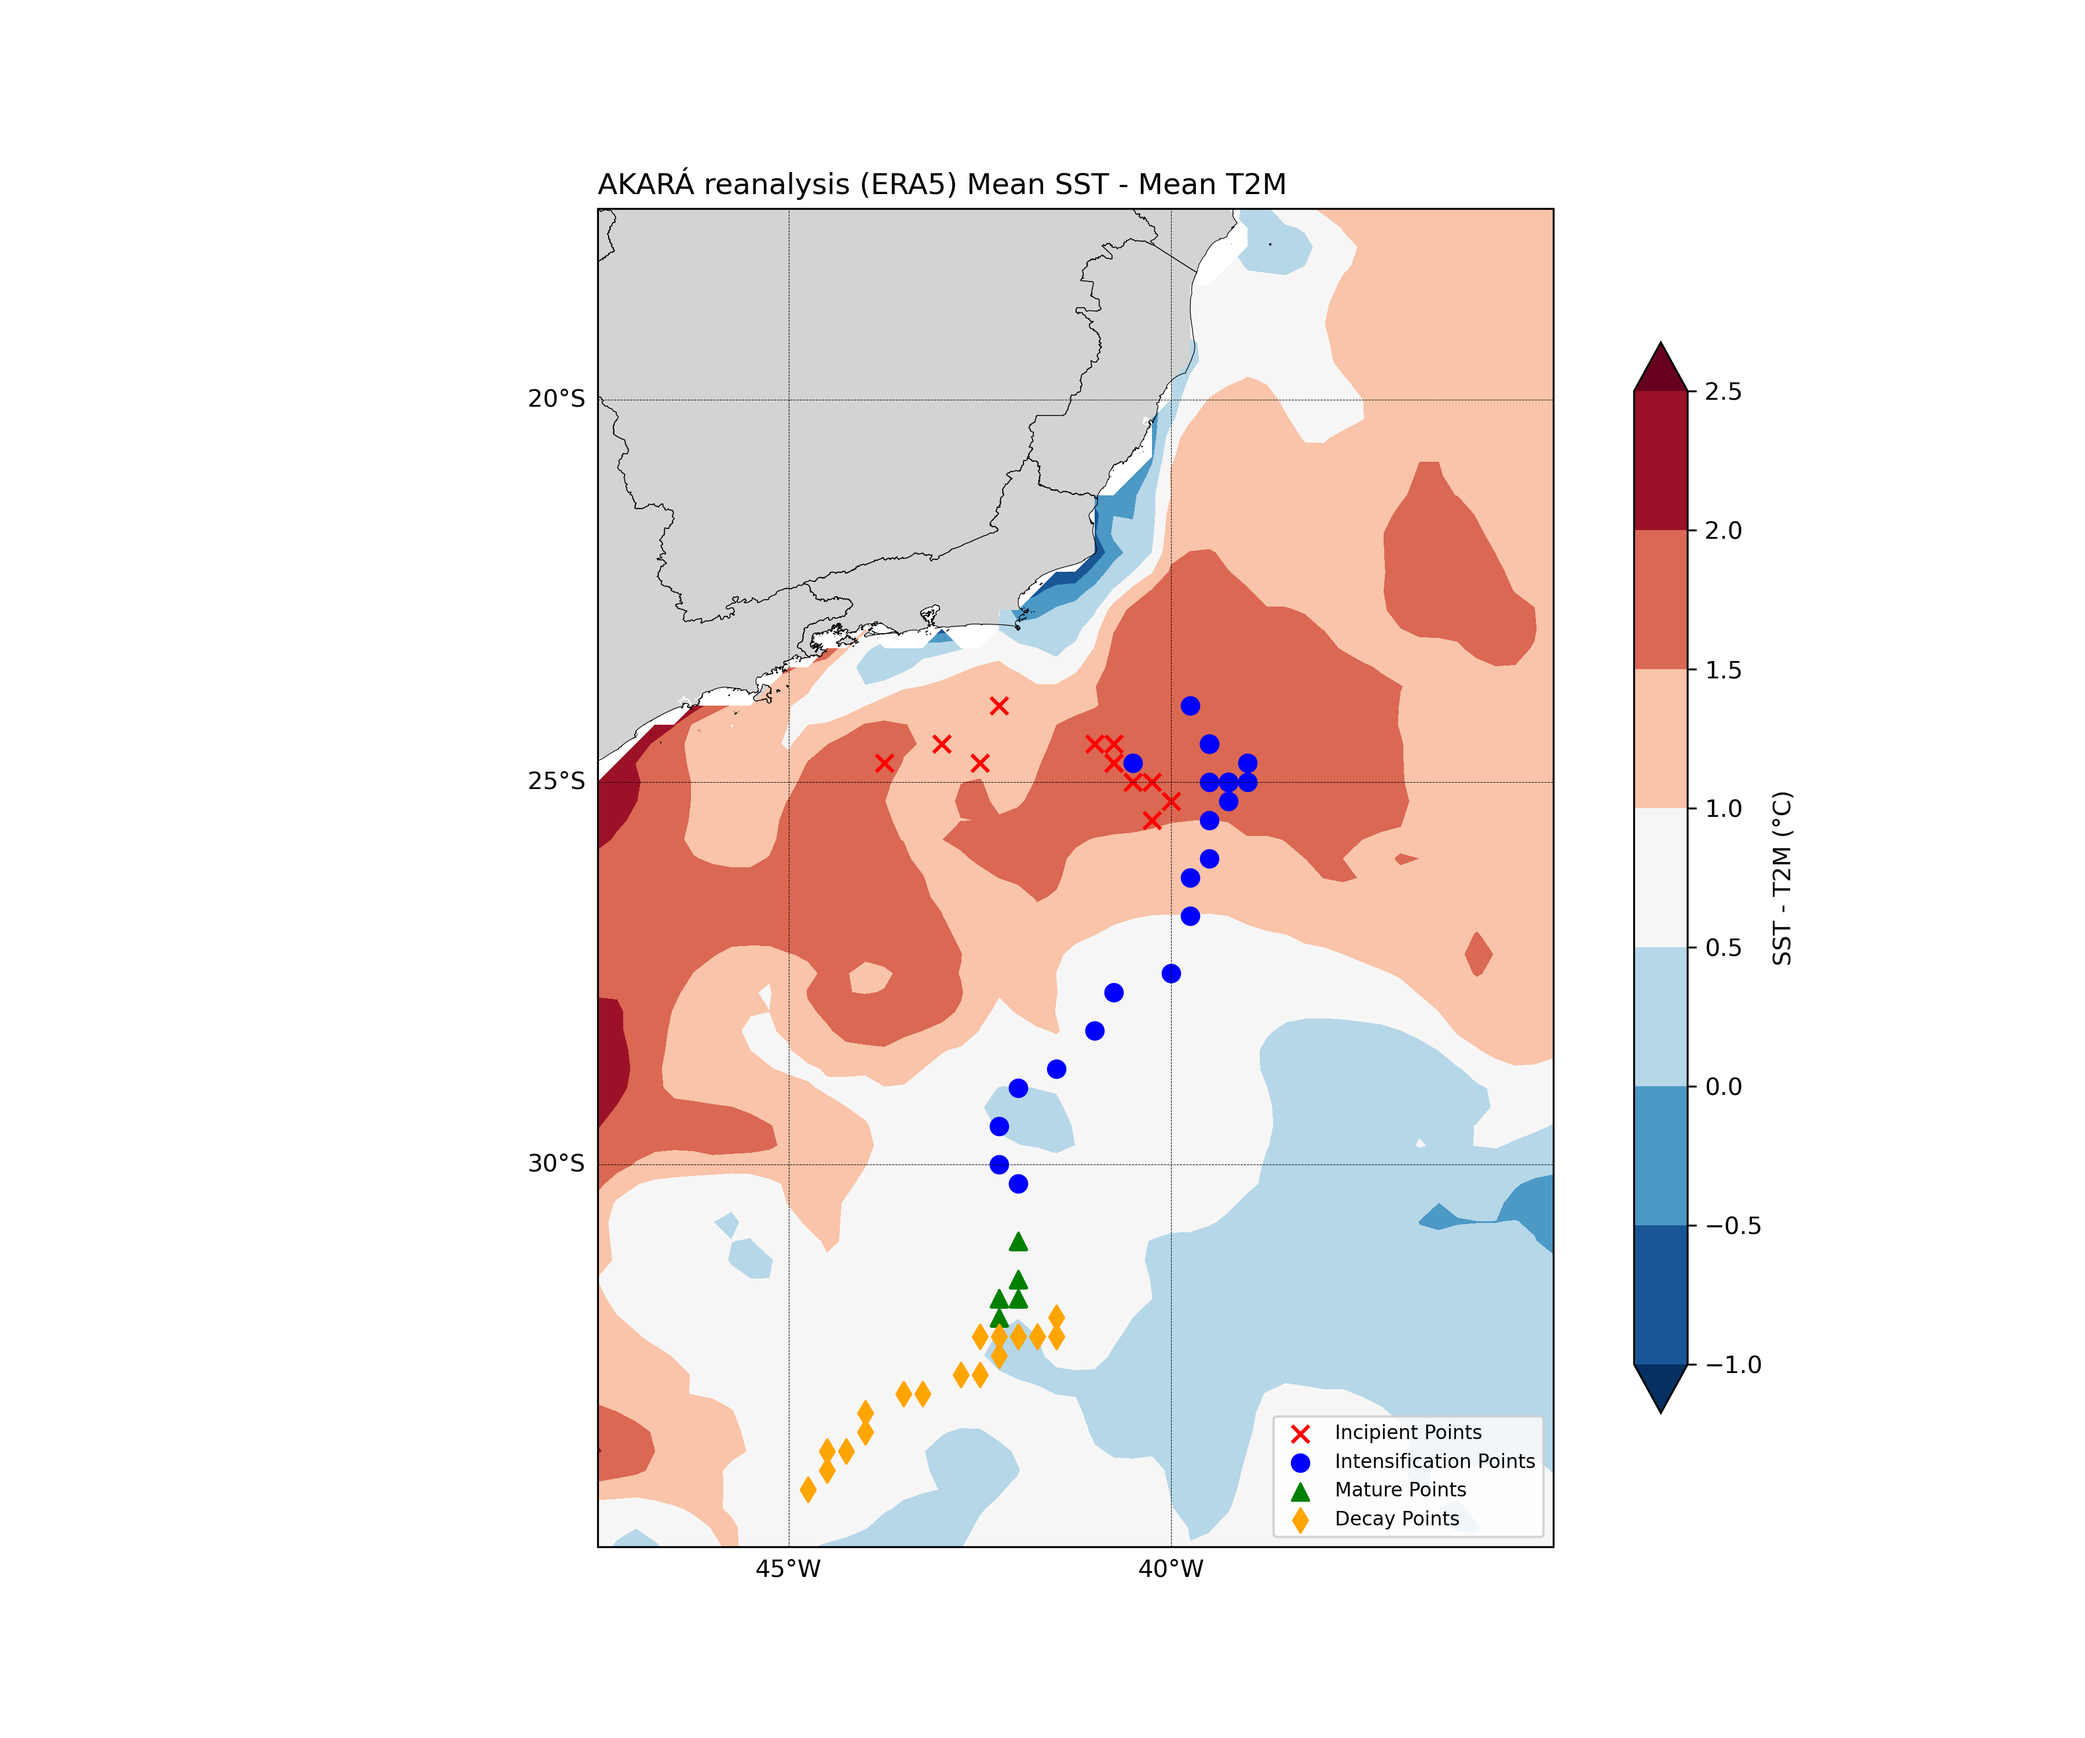
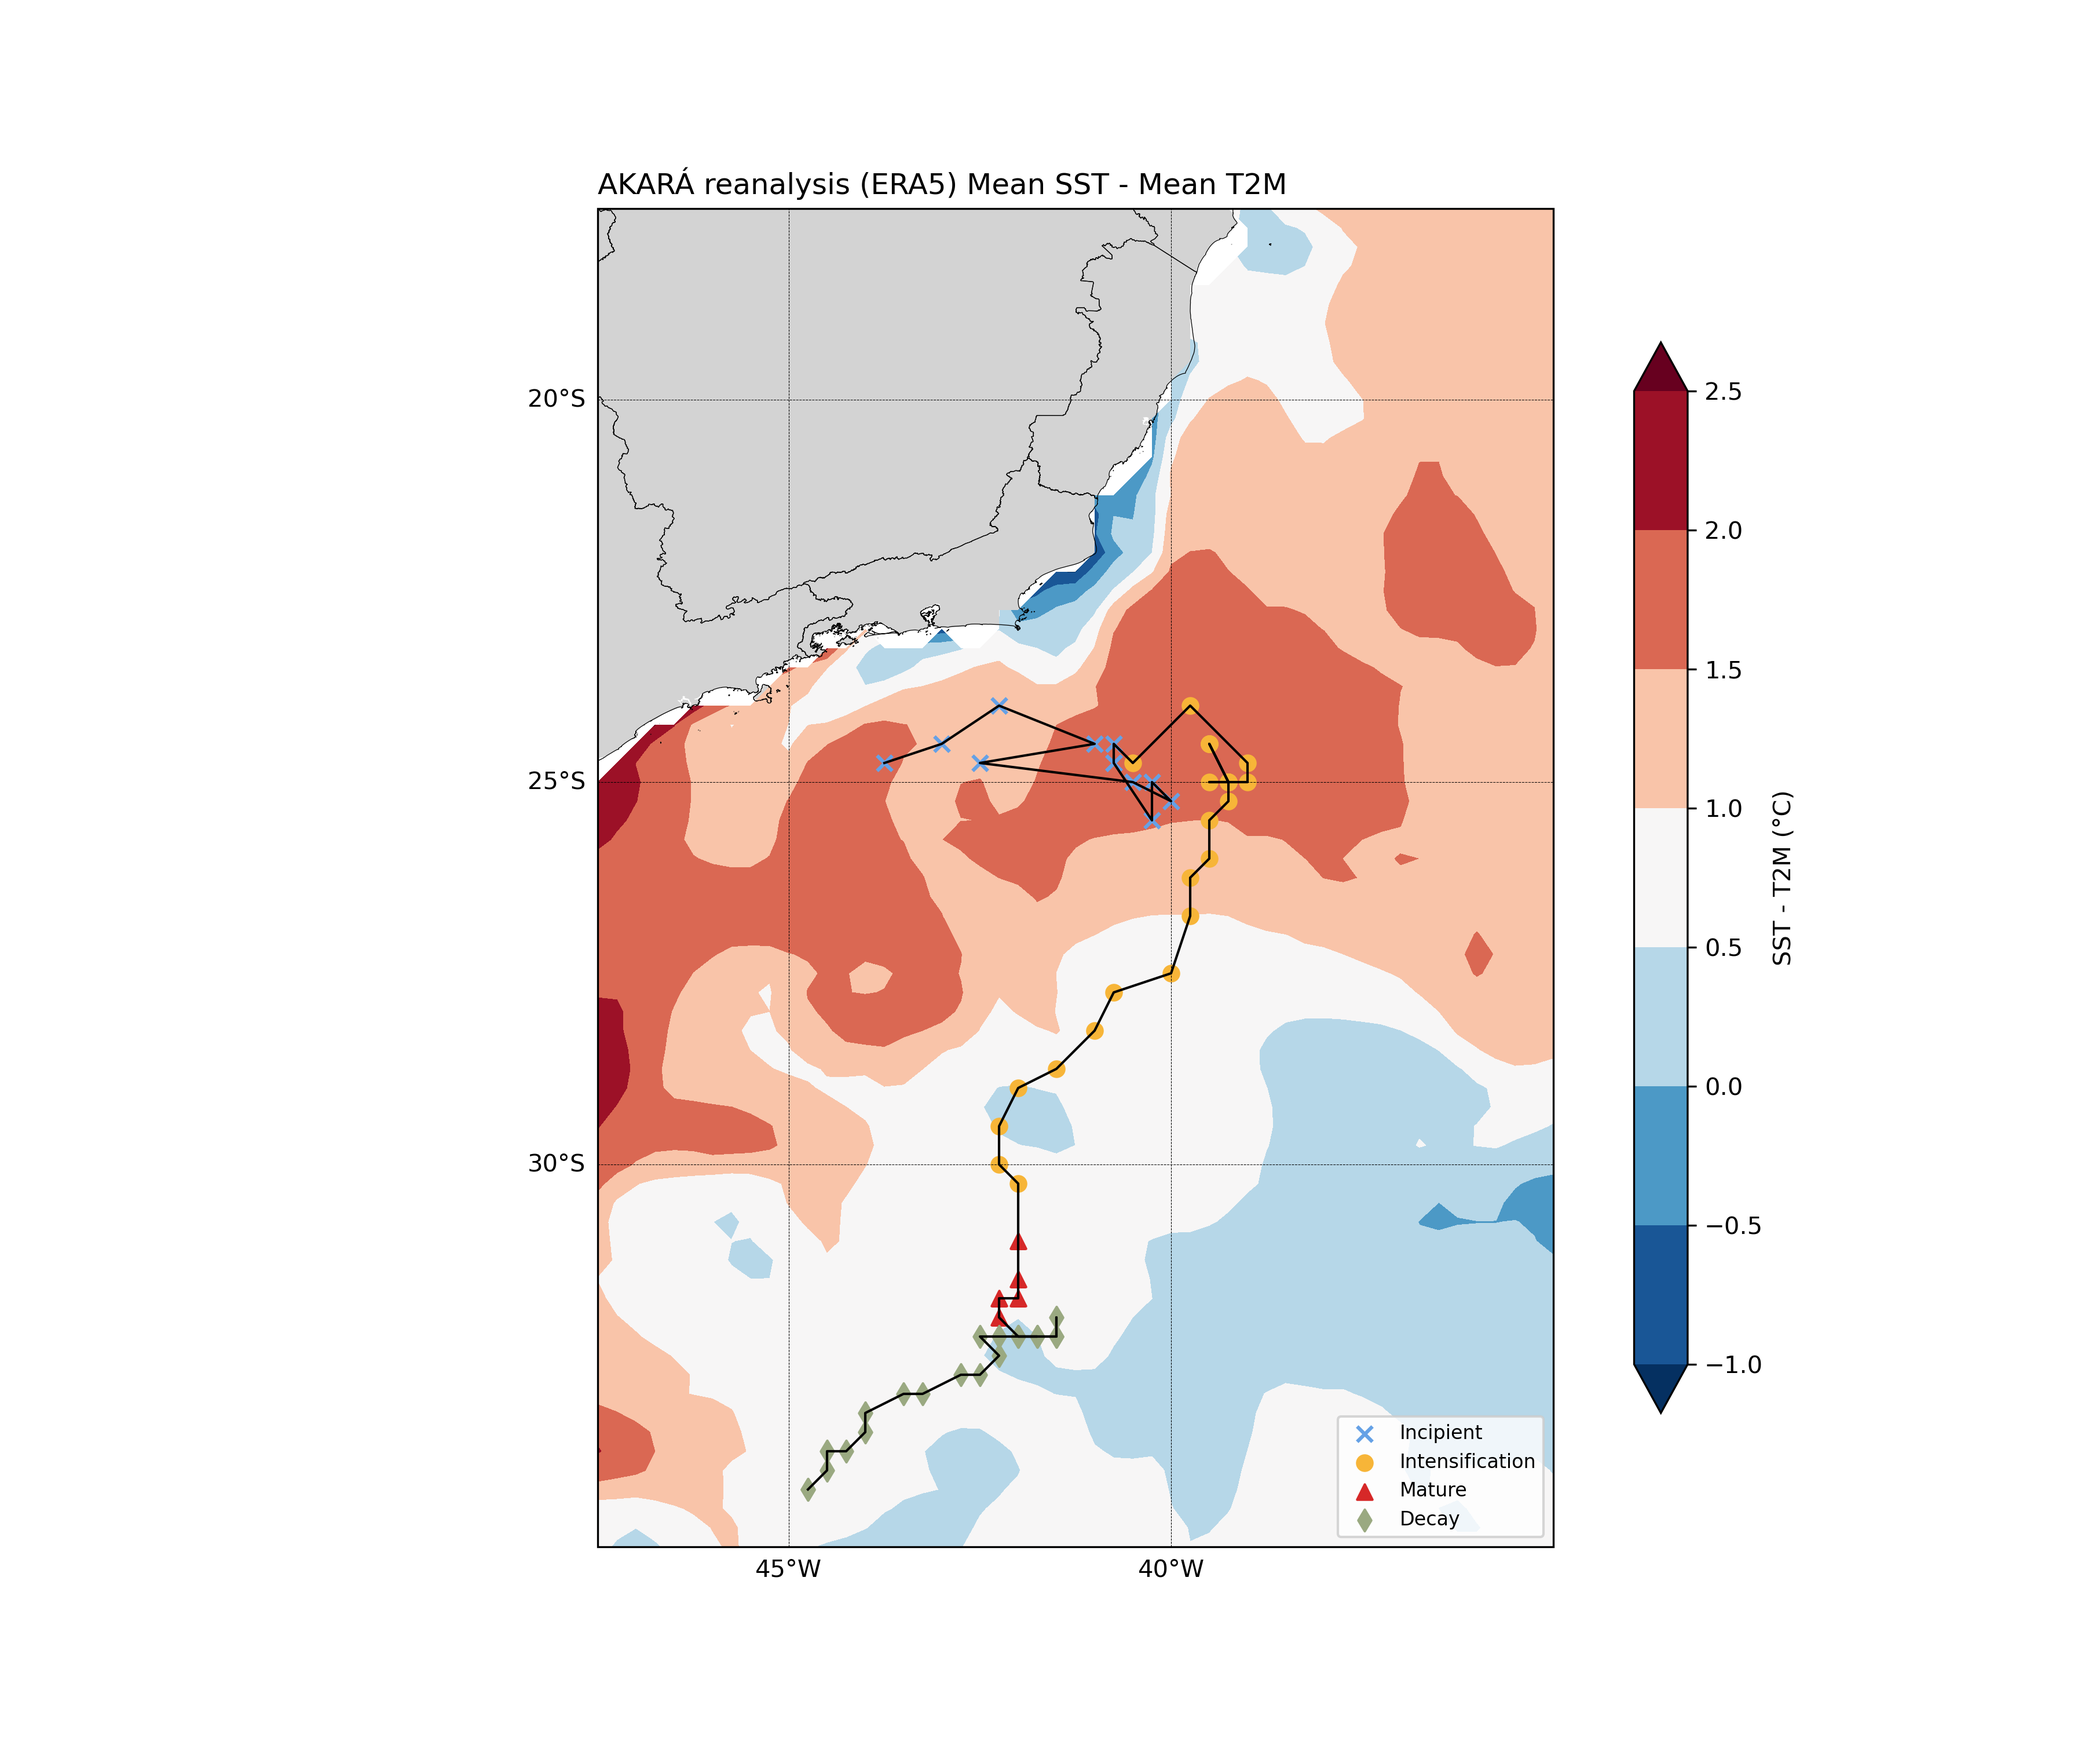
atualizaão

diff --git a/Akara/Charts/scripts/mean_sst_track.py b/Akara/Charts/scripts/mean_sst_track.py
@@ -19,7 +19,9 @@ df2 = pd.read_csv(DIRCSV2 + 'trackfile.v3.txt', sep='\s+', header=None, names=["
 
 # Definir dicionários para símbolos e cores
 symbols = {'Incipient': 'x', 'Intensification': 'o', 'Mature': '^', 'Decay': 'd'}
-colors = {'Incipient': 'red', 'Intensification': 'blue', 'Mature': 'green', 'Decay': 'orange'}
+
+colors= {'Incipient': '#65a1e6', 'Intensification': '#f7b538',
+                 'Mature': '#d62828', 'Decay': '#9aa981'}
 
 # Definir fase, símbolo e cor para cada índice
 df2['phase'] = ''
@@ -69,12 +71,14 @@ img = ax.contourf(lon, lat, dif_temperatura, levels=levels, transform=ccrs.Plate
 cb = plt.colorbar(img, ax=ax, orientation='vertical', pad=0.05, shrink=0.8, label="SST - T2M (°C)")
 
 # Plotar cada fase com linhas conectando os pontos e marcadores
+
+ax.plot(df2['Lon'], df2['Lat'], transform=ccrs.PlateCarree(),
+        color='black', linewidth=1, linestyle='-')
+
 for phase in df2['phase'].unique():
     phase_data = df2[df2['phase'] == phase]
-    #ax.plot(phase_data['Lon'], phase_data['Lat'], transform=ccrs.PlateCarree(),
-            #color=colors[phase], linewidth=1.5, linestyle='-', label=f'{phase} Trajectory')
     ax.scatter(phase_data['Lon'], phase_data['Lat'], transform=ccrs.PlateCarree(),
-               color=colors[phase], marker=symbols[phase], s=50, label=f'{phase} Points')
+               color=colors[phase], marker=symbols[phase], s=40, label=f'{phase}', linestyle='-')
 
 # Adicionar legenda
 ax.legend(loc='lower right', fontsize=8)
